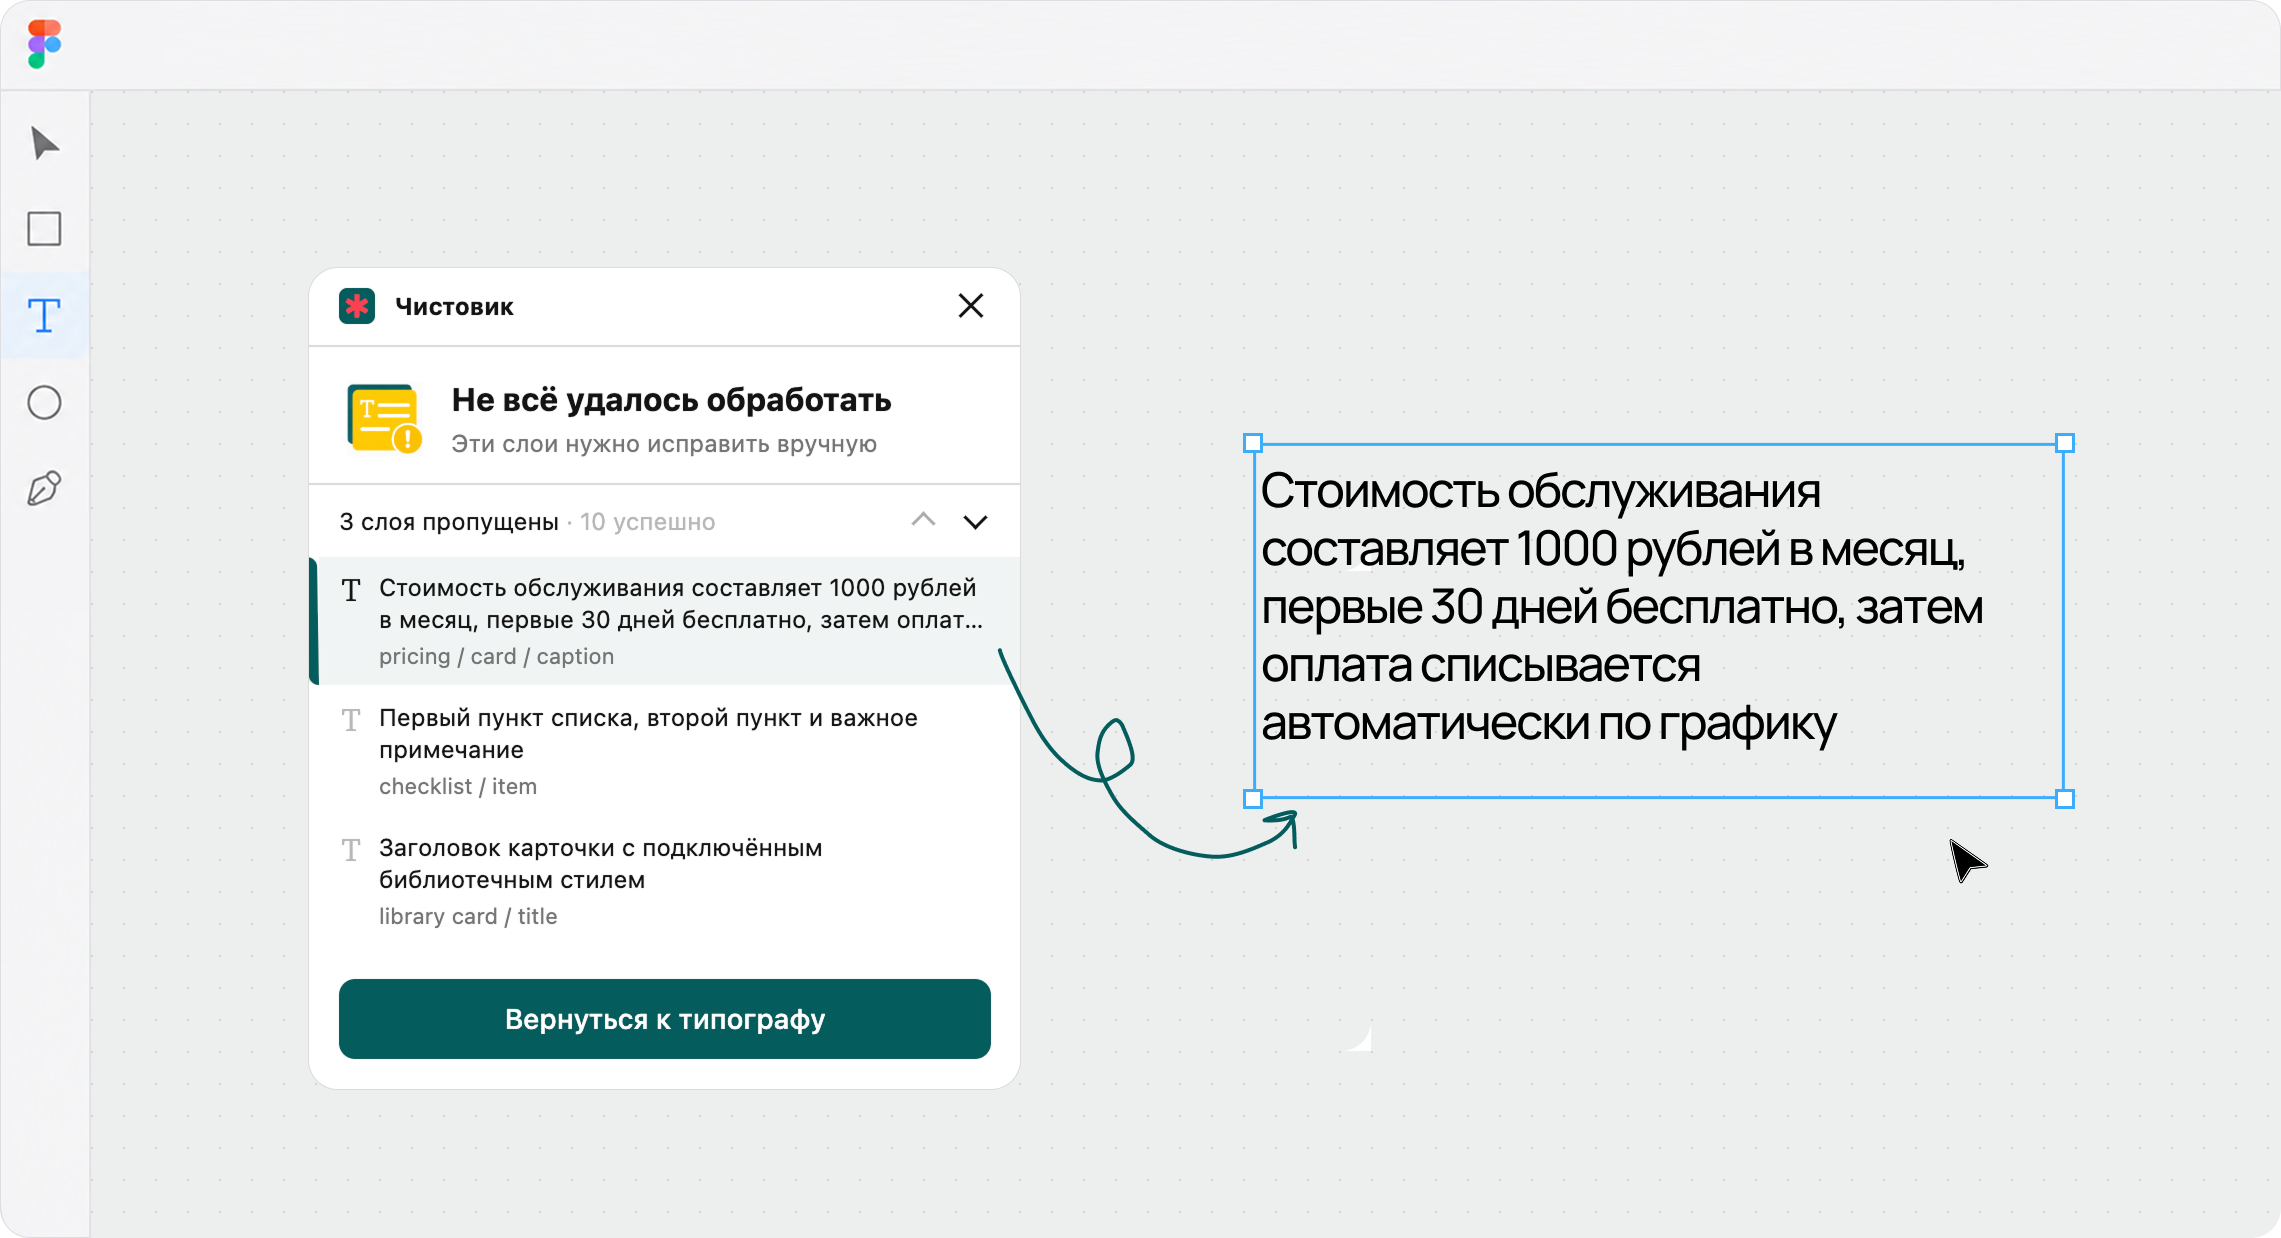
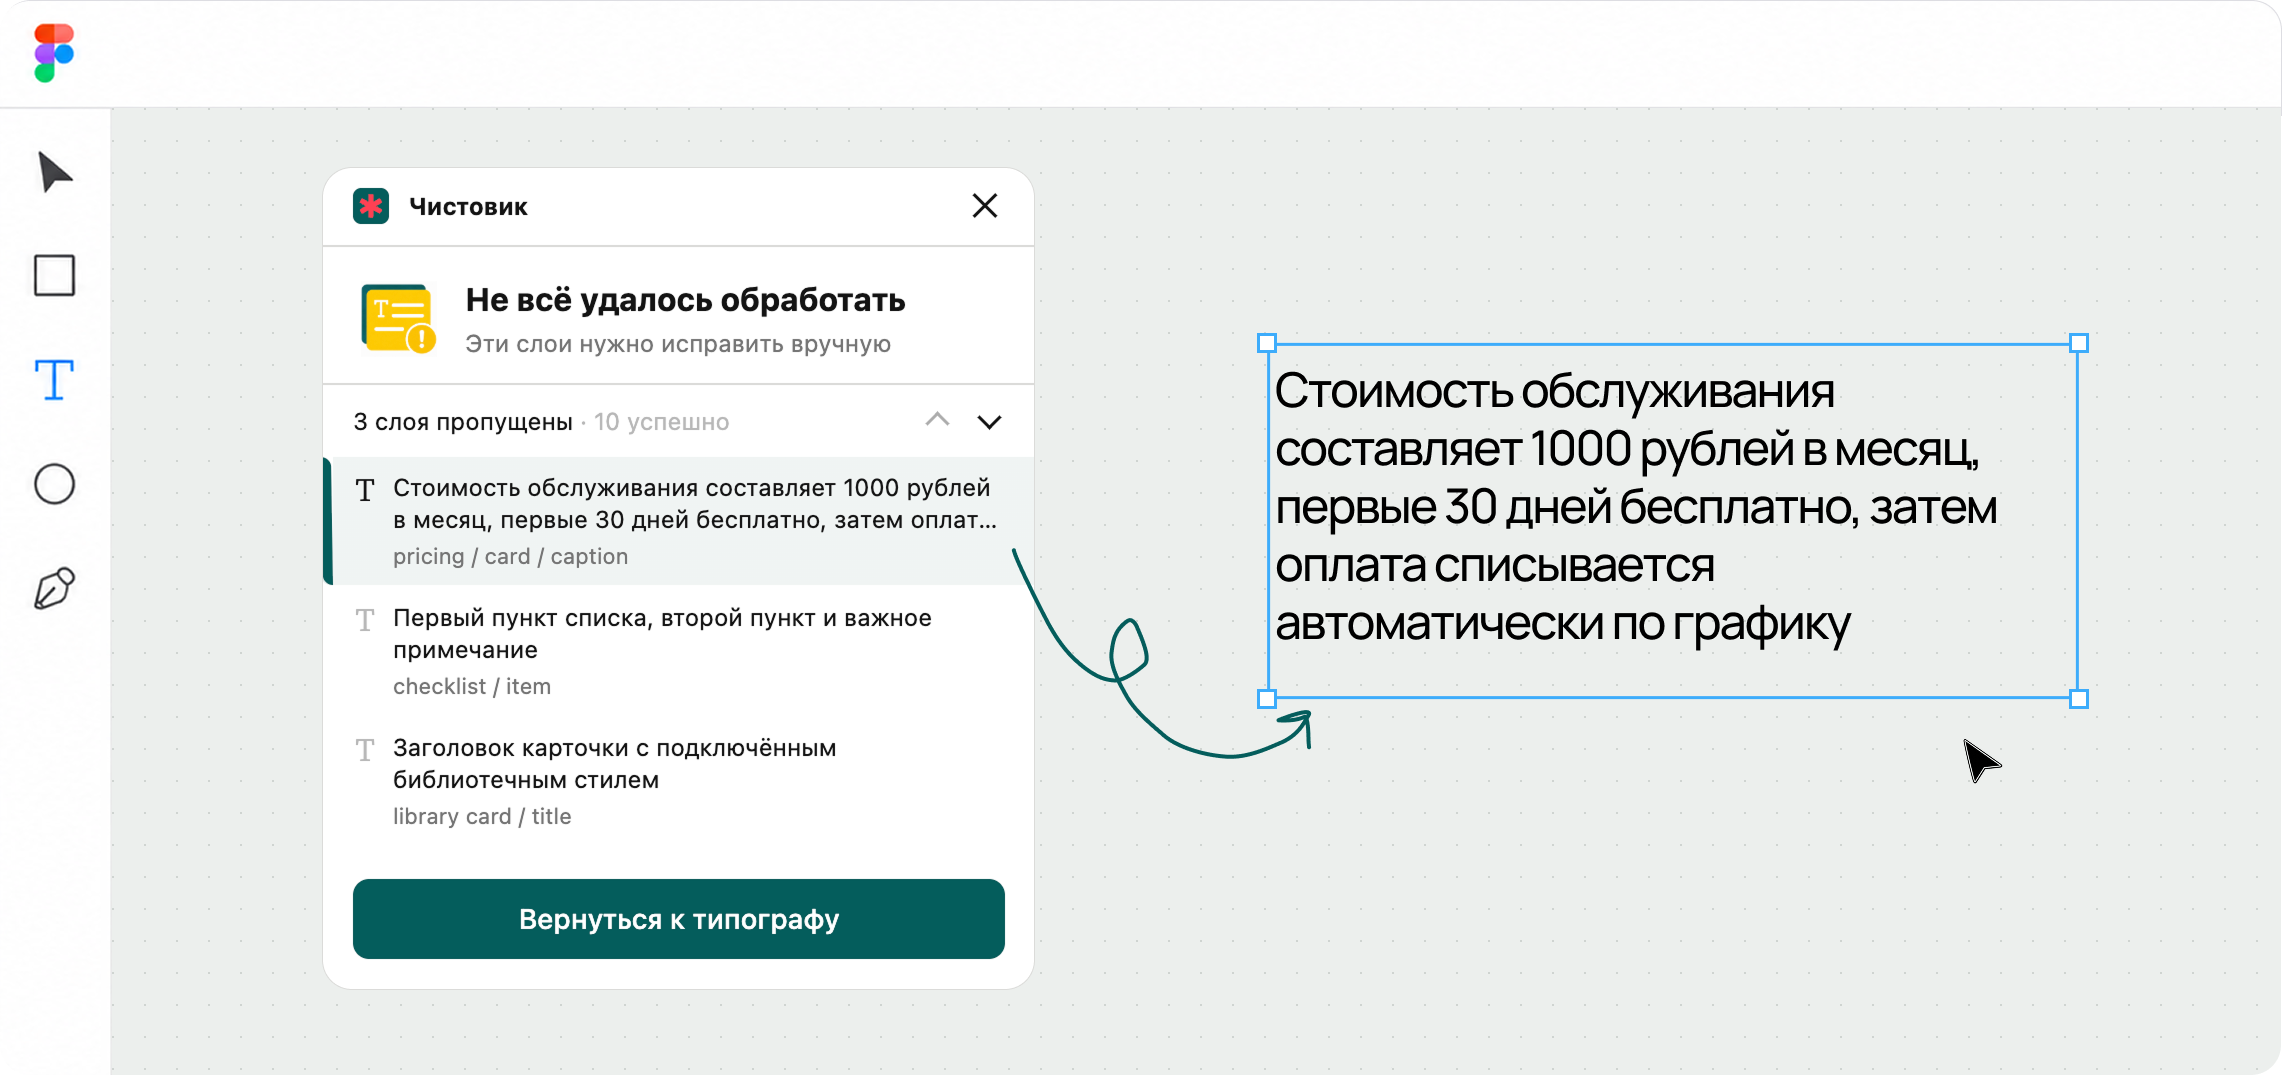
Expand problem illustration edge to edge

diff --git a/landing/index.html b/landing/index.html
@@ -7,7 +7,7 @@
     <meta name="description" content="Чистовик — Figma-плагин, который приводит русскую типографику в порядок и бережно работает с существующим макетом.">
     <title>Чистовик&nbsp;— типограф для Figma</title>
     <link rel="icon" href="./plugin-icon.svg" type="image/svg+xml">
-    <link rel="stylesheet" href="./styles.css?v=20260808-30">
+    <link rel="stylesheet" href="./styles.css?v=20260808-31">
     <script src="./script.js" defer></script>
   </head>
   <body>
@@ -185,8 +185,8 @@
           <p>Если что‑то идёт не&nbsp;так, Чистовик не&nbsp;останавливается&nbsp;— исправляет всё, что может, а&nbsp;проблемные слои собирает в&nbsp;отдельном окне. Достаточно нажать на&nbsp;строку, Figma сразу найдёт её&nbsp;и&nbsp;выделит в&nbsp;макете. Останется поправить текст вручную.</p>
         </div>
 
-        <figure class="comparison-card" aria-label="Проблемный слой и его расположение в макете Figma">
-          <img class="problem-image" src="./problems-horizontal.png" width="2281" height="1238" alt="" loading="lazy" decoding="async">
+        <figure class="comparison-card edge-to-edge" aria-label="Проблемный слой и его расположение в макете Figma">
+          <img class="problem-image" src="./problems-horizontal.png?v=2" width="2282" height="1075" alt="" loading="lazy" decoding="async">
         </figure>
       </section>
 

diff --git a/landing/styles.css b/landing/styles.css
@@ -661,6 +661,10 @@ figcaption {
   padding: var(--surface-padding);
 }
 
+.comparison-card.edge-to-edge {
+  padding: 0;
+}
+
 .segmented-control {
   display: grid;
   width: fit-content;
